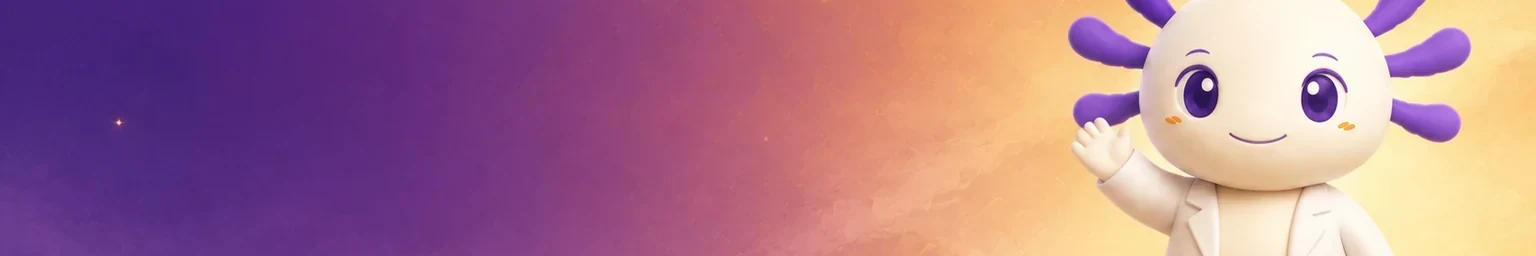
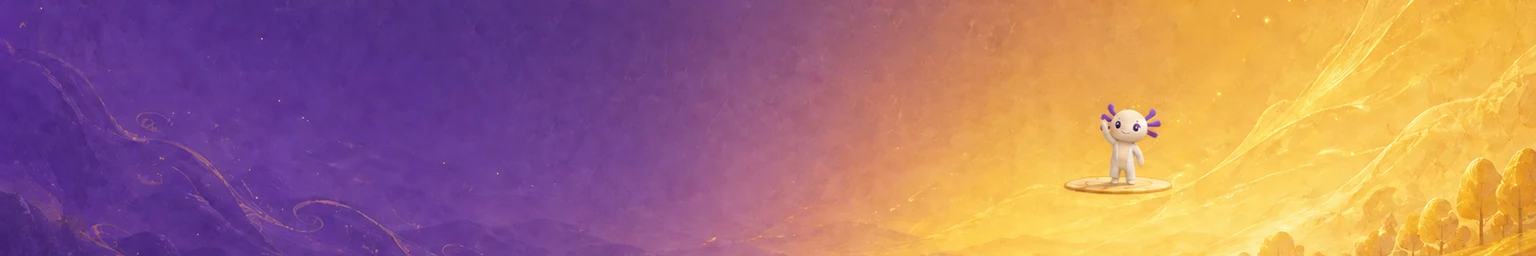
Les douze bannières livrées sont en place ; plus de mur de cadenas dans une case
ChatGPT a livré les douze bannières au format demandé, 1536×256 toutes
les douze : les dix des mondes impairs et les deux Étudiant Medeos
refaites. Converties en WebP et enregistrées.

La fenêtre d'une case ne montre plus « Fiche 2 » à « Fiche 10 » : les
fiches faites, la prochaine, deux cadenas, puis « + 7 fiches à découvrir
ensuite » — le parcours utilisateur avait montré un écran entier de
cadenas au premier jour.

diff --git a/index.html b/index.html
@@ -2287,6 +2287,7 @@
 .tu-bar i{display:block;height:100%;background:linear-gradient(90deg,#6B46C1,#E29C5C);border-radius:99px}
 .tu-p{font-size:12.5px;line-height:1.55;color:#3A3550;margin:0 0 12px}
 .tu-liste{display:flex;flex-direction:column;gap:6px}
+.tu-reste{text-align:center;font-size:11.5px;font-weight:700;color:var(--muted);padding:8px 0 2px}
 .tu-f{display:flex;align-items:center;gap:10px;width:100%;text-align:left;padding:10px 12px;border-radius:12px;border:1px solid var(--line2);background:#fff;font-family:inherit;font-size:12.5px;color:#1A1A2E}
 .tu-f.faite{cursor:pointer;border-color:rgba(107,70,193,.35)}
 .tu-f.faite:active{background:#F3EEFF}
@@ -7374,7 +7375,7 @@ function prochainsTitres(n){
    outils/implante-parcours.js. On ne demande jamais une image absente : pas de 404 à
    chaque ouverture de la carte, et une image déposée est prise à la prochaine implantation. */
 /* ==VIGNETTES== */
-const VIGNETTES={"av-monde-02":"av-monde-02.webp","av-monde-04":"av-monde-04.webp","av-monde-06":"av-monde-06.webp","av-monde-08":"av-monde-08.webp","av-monde-10":"av-monde-10.webp","av-monde-12":"av-monde-12.webp","av-monde-14":"av-monde-14.webp","av-monde-16":"av-monde-16.webp","av-monde-18":"av-monde-18.webp","av-monde-20":"av-monde-20.webp","av-monde-22":"av-monde-22.webp","badge-certifie":"badge-certifie.webp","badge-etudiant":"badge-etudiant.webp","ban-certifie":"ban-certifie.webp","ban-medeos":"ban-medeos.webp","bandeau-monde":"bandeau-monde.webp","bandeau-rentree":"bandeau-rentree.webp","camp-stage":"camp-stage.webp","coffre-ouvert":"coffre-ouvert.webp","coffre":"coffre.webp","dalle-cristal":"dalle-cristal.webp","dalle-cuivre":"dalle-cuivre.webp","dalle-glace":"dalle-glace.webp","dalle-herbe":"dalle-herbe.webp","dalle-pierre":"dalle-pierre.webp","dalle-sable":"dalle-sable.webp","fond-route":"fond-route.webp","marqueur-ici":"marqueur-ici.webp","monde-01":"monde-01.webp","monde-02":"monde-02.webp","monde-03":"monde-03.webp","monde-04":"monde-04.webp","monde-05":"monde-05.webp","monde-06":"monde-06.webp","monde-07":"monde-07.webp","monde-08":"monde-08.webp","monde-09":"monde-09.webp","monde-10":"monde-10.webp","monde-11":"monde-11.webp","monde-12":"monde-12.webp","monde-13":"monde-13.webp","monde-14":"monde-14.webp","monde-15":"monde-15.webp","monde-16":"monde-16.webp","monde-17":"monde-17.webp","monde-18":"monde-18.webp","monde-19":"monde-19.webp","monde-20":"monde-20.webp","monde-21":"monde-21.webp","monde-22":"monde-22.webp","parcours-des-mondes":"parcours-des-mondes.webp","rail":"rail.webp","recompense-arene":"recompense-arene.webp","recompense-carte":"recompense-carte.webp","recompense-fiches":"recompense-fiches.webp","recompense-gel":"recompense-gel.webp","rentree":"rentree.webp","socle":"socle.webp","stage-fevrier":"stage-fevrier.webp","stage-noel":"stage-noel.webp","stage-paques":"stage-paques.webp","stage-prerentree":"stage-prerentree.webp","stage-toussaint":"stage-toussaint.webp"};
+const VIGNETTES={"av-monde-02":"av-monde-02.webp","av-monde-04":"av-monde-04.webp","av-monde-06":"av-monde-06.webp","av-monde-08":"av-monde-08.webp","av-monde-10":"av-monde-10.webp","av-monde-12":"av-monde-12.webp","av-monde-14":"av-monde-14.webp","av-monde-16":"av-monde-16.webp","av-monde-18":"av-monde-18.webp","av-monde-20":"av-monde-20.webp","av-monde-22":"av-monde-22.webp","badge-certifie":"badge-certifie.webp","badge-etudiant":"badge-etudiant.webp","ban-certifie":"ban-certifie.webp","ban-medeos":"ban-medeos.webp","ban-monde-03":"ban-monde-03.webp","ban-monde-05":"ban-monde-05.webp","ban-monde-07":"ban-monde-07.webp","ban-monde-09":"ban-monde-09.webp","ban-monde-11":"ban-monde-11.webp","ban-monde-13":"ban-monde-13.webp","ban-monde-15":"ban-monde-15.webp","ban-monde-17":"ban-monde-17.webp","ban-monde-19":"ban-monde-19.webp","ban-monde-21":"ban-monde-21.webp","bandeau-monde":"bandeau-monde.webp","bandeau-rentree":"bandeau-rentree.webp","camp-stage":"camp-stage.webp","coffre-ouvert":"coffre-ouvert.webp","coffre":"coffre.webp","dalle-cristal":"dalle-cristal.webp","dalle-cuivre":"dalle-cuivre.webp","dalle-glace":"dalle-glace.webp","dalle-herbe":"dalle-herbe.webp","dalle-pierre":"dalle-pierre.webp","dalle-sable":"dalle-sable.webp","fond-route":"fond-route.webp","marqueur-ici":"marqueur-ici.webp","monde-01":"monde-01.webp","monde-02":"monde-02.webp","monde-03":"monde-03.webp","monde-04":"monde-04.webp","monde-05":"monde-05.webp","monde-06":"monde-06.webp","monde-07":"monde-07.webp","monde-08":"monde-08.webp","monde-09":"monde-09.webp","monde-10":"monde-10.webp","monde-11":"monde-11.webp","monde-12":"monde-12.webp","monde-13":"monde-13.webp","monde-14":"monde-14.webp","monde-15":"monde-15.webp","monde-16":"monde-16.webp","monde-17":"monde-17.webp","monde-18":"monde-18.webp","monde-19":"monde-19.webp","monde-20":"monde-20.webp","monde-21":"monde-21.webp","monde-22":"monde-22.webp","parcours-des-mondes":"parcours-des-mondes.webp","rail":"rail.webp","recompense-arene":"recompense-arene.webp","recompense-carte":"recompense-carte.webp","recompense-fiches":"recompense-fiches.webp","recompense-gel":"recompense-gel.webp","rentree":"rentree.webp","socle":"socle.webp","stage-fevrier":"stage-fevrier.webp","stage-noel":"stage-noel.webp","stage-paques":"stage-paques.webp","stage-prerentree":"stage-prerentree.webp","stage-toussaint":"stage-toussaint.webp"};
 /* ==/VIGNETTES== */
 let _terr=null;
 function territoires(){
@@ -8054,13 +8055,17 @@ function ouvrirTuile(k){
   const et=etatTerritoire(t), p=progTerritoire(t);
   const m=mondes().find(x=>x.terr.indexOf(t)>=0);
   document.getElementById('tuile-titre').innerHTML='<img class="tu-ico" src="img/icones/'+EMB_MAT[t.mat]+'.png" alt=""> '+t.nom;
-  let prochaine=false;
-  const lignes=t.fiches.map((f,i)=>{
+  /* On ne montre PAS neuf cadenas d'affilée : au premier jour, la fenêtre n'était qu'un mur de
+     « Fiche 2 … Fiche 10 » verrouillées. Les fiches faites, la prochaine, deux cadenas, puis un compte. */
+  let prochaine=false; const lignes=[]; let verrous=0;
+  t.fiches.forEach((f,i)=>{
     const titre=TITRES_FICHES[f]||f;
-    if(faite(f)) return '<button type="button" class="tu-f faite" onclick="consulterFiche(\''+f+'\')"><span class="tu-n">✓</span><span class="tu-t">'+titre+'</span><span class="tu-go">relire</span></button>';
-    if(!prochaine && et.etat!=='avenir'){ prochaine=true; return '<div class="tu-f suiv"><span class="tu-n">→</span><span class="tu-t">'+titre+'</span><span class="tu-go">prochaine</span></div>'; }
-    return '<div class="tu-f lock"><span class="tu-n">🔒</span><span class="tu-t">Fiche '+(i+1)+'</span></div>';
+    if(faite(f)){ lignes.push('<button type="button" class="tu-f faite" onclick="consulterFiche(\''+f+'\')"><span class="tu-n">✓</span><span class="tu-t">'+titre+'</span><span class="tu-go">relire</span></button>'); return; }
+    if(!prochaine && et.etat!=='avenir'){ prochaine=true; lignes.push('<div class="tu-f suiv"><span class="tu-n">→</span><span class="tu-t">'+titre+'</span><span class="tu-go">prochaine</span></div>'); return; }
+    verrous++;
+    if(verrous<=2) lignes.push('<div class="tu-f lock"><span class="tu-n">🔒</span><span class="tu-t">Fiche '+(i+1)+'</span></div>');
   });
+  if(verrous>2) lignes.push('<div class="tu-reste">+ '+(verrous-2)+' fiche'+(verrous-2>1?'s':'')+' à découvrir ensuite</div>');
   const entete = p.lues
     ? '<p class="tu-p"><b>'+p.lues+' fiche'+(p.lues>1?'s':'')+' sur '+p.tot+' travaillée'+(p.lues>1?'s':'')+'.</b> Relire une fiche déjà faite, c\'est ce qui la garde en mémoire — reviens ici régulièrement.</p>'
     : et.etat==='avenir'
